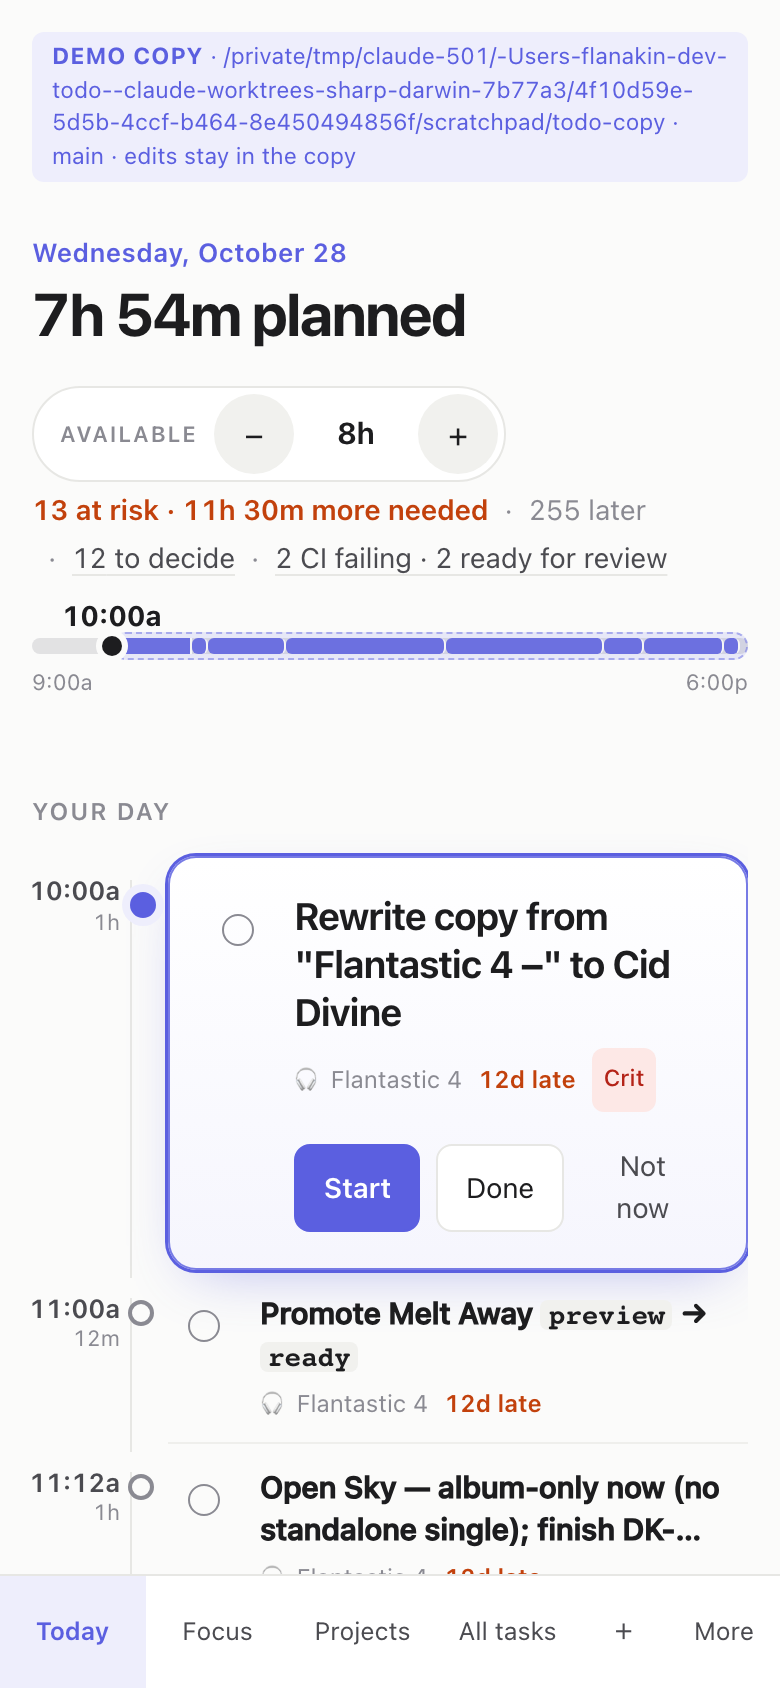
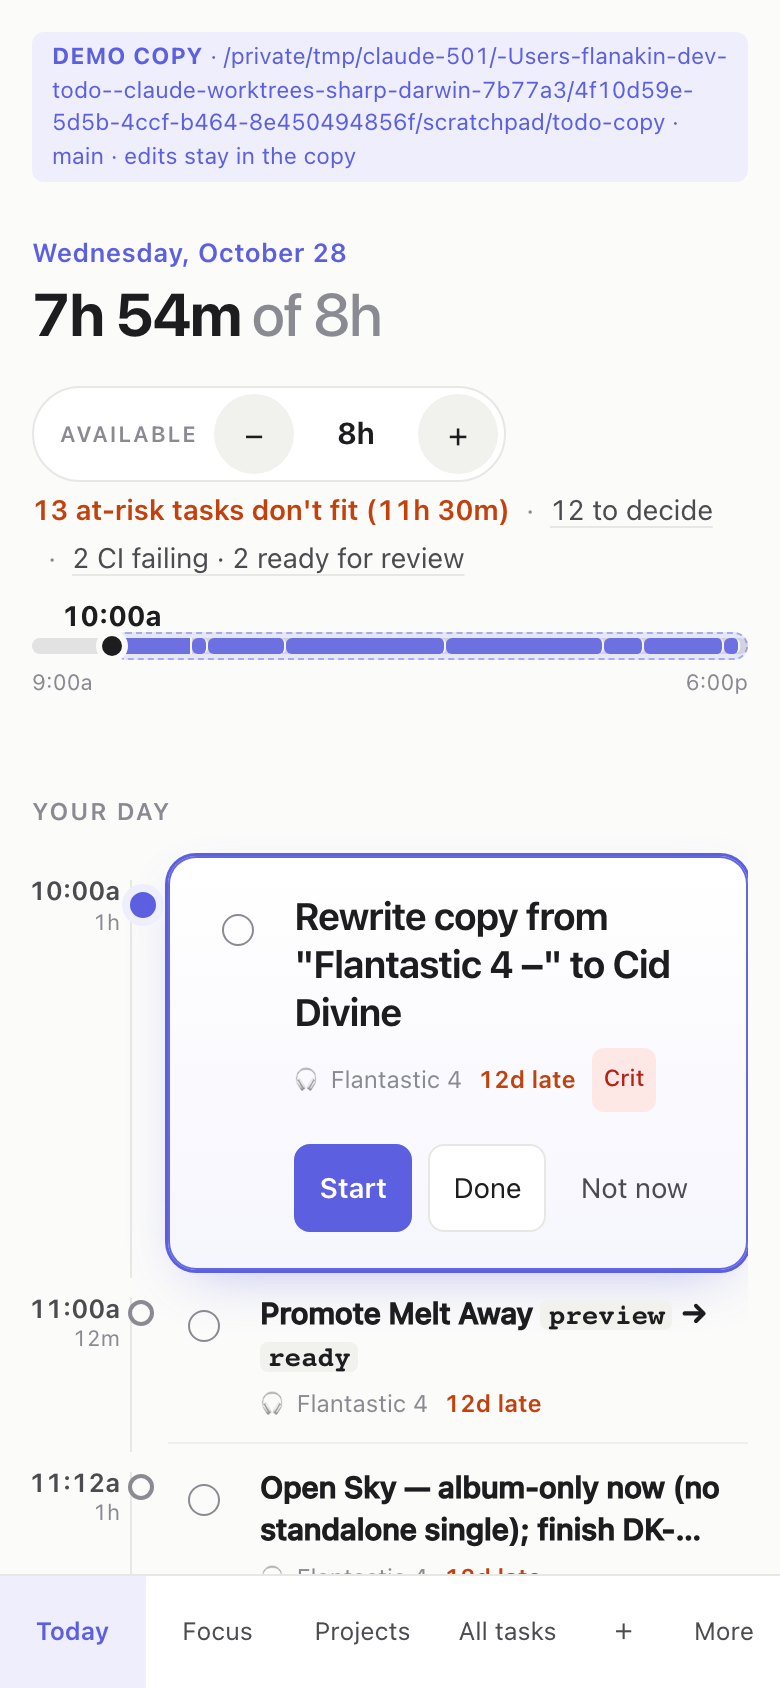
[Stack][Change] Today designer pass: budget headline, at-risk-only fit list, two columns from 960px, cleaner AI team rows

diff --git a/web/src/views.tsx b/web/src/views.tsx
@@ -305,6 +305,8 @@ function Sent({ items, now }: { items: InboxItem[]; now: Date }) {
 
 type RefText = { ref: string; text: string };
 type RowKey = RefText & { project: string };
+/** Agent rows often start with a project glyph and an `[AI]` tag; both are noise in the panel. */
+const agentTitle = (s: string) => s.replace(/^(?:[^\p{L}\p{N}`*[]+\s*)+/u, '').replace(/^\[AI\]\s*/i, '').replace(/\s+[—-]\s*$/, '').trim() || s;
 const CHECK = { passing: '✓', failing: '✕', pending: '…', none: '' } as const;
 
 export interface TodayProps {
@@ -335,9 +337,10 @@ export function TodayView(t: TodayProps) {
   const agents = t.agents ?? [];
   const live = agents.filter((a) => a.state !== 'queued');
   const queued = agents.filter((a) => a.state === 'queued');
-  const shownQueued = queuedOpen ? queued : queued.slice(0, 3);
+  const shownQueued = queuedOpen ? queued : [];
   const heads = attention(agents).filter((x) => !/queued$/.test(x)).slice(0, 2);
   const over = t.plan.overflow.length > 0;
+  const shownOver = t.plan.atRisk.length > 0 ? t.plan.atRisk.slice(0, 12) : t.plan.overflow.slice(0, 5);
   const replyBox = (key: string, task: RefText, owner: string, placeholder: string, ok: string) => replying === key && (
     <Reply to={`the ${owner} agent`} placeholder={placeholder} onClose={() => setReplying(null)} onSend={(text) => { setReplying(null); t.onReply(task, text, ok); }} />
   );
@@ -349,7 +352,7 @@ export function TodayView(t: TodayProps) {
       <li key={a.ref} class={`agent ${a.state}`}>
         <span class="pulse" aria-hidden="true" />
         <div class="agent-body">
-          <p class="agent-title"><Md text={r.title || a.title} /></p>
+          <p class="agent-title"><Md text={agentTitle(r.title || a.title)} /></p>
           <p class="agent-meta">
             <span class="agent-state">{AGENT_LABEL[a.state]}</span>
             <span>{owner}</span>
@@ -361,9 +364,9 @@ export function TodayView(t: TodayProps) {
             {line && <span class="agent-last">{line}</span>}
           </p>
           <Sent items={repliesOf(a)} now={t.now} />
-          {replyBox(a.ref, a, owner, 'Message the agent', 'Sent to the agent')}
         </div>
         <button type="button" class="btn quiet reveal" aria-expanded={replying === a.ref} onClick={() => setReplying(replying === a.ref ? null : a.ref)}>Reply</button>
+        {replyBox(a.ref, a, owner, 'Message the agent', 'Sent to the agent')}
       </li>
     );
   };
@@ -373,7 +376,7 @@ export function TodayView(t: TodayProps) {
         <div class="t-top">
           <div>
             <p class="t-date">{date}</p>
-            <h1>{t.plan.blocks.length === 0 ? (t.budget.minutes > 0 ? 'Nothing planned' : 'No time planned') : `${span(t.plan.busy)} planned`}</h1>
+            <h1>{t.plan.blocks.length === 0 ? (t.budget.minutes > 0 ? 'Nothing planned' : 'No time planned') : <>{span(t.plan.busy)} <span class="of">of {span(t.budget.minutes)}</span></>}</h1>
           </div>
           <div class="avail" role="group" aria-label="Available today" data-testid="available">
             <span class="avail-label">Available</span>
@@ -384,8 +387,7 @@ export function TodayView(t: TodayProps) {
           </div>
         </div>
         <p class="t-sub">
-          {t.plan.atRisk.length > 0 ? <span class="warn">{t.plan.atRisk.length} at risk · {span(t.plan.riskShort)} more needed</span> : <span>{span(t.plan.free)} free</span>}
-          {t.plan.overflow.length > t.plan.atRisk.length && <span class="quiet">{t.plan.overflow.length - t.plan.atRisk.length} later</span>}
+          {t.plan.atRisk.length > 0 ? <span class="warn">{t.plan.atRisk.length} at-risk task{t.plan.atRisk.length === 1 ? '' : 's'} don't fit ({span(t.plan.riskShort)})</span> : <span>{span(t.plan.free)} free</span>}
           {t.plan.assumed > 0 && <span class="quiet" title="No effort set; 30 min assumed">{t.plan.assumed} estimated</span>}
           {t.decisions.length > 0 && <button type="button" class="jump" onClick={() => jump('needs-you')}>{t.decisions.length} to decide</button>}
           {heads.length > 0 && <button type="button" class="jump" onClick={() => jump('ai-team')}>{heads.join(' · ')}</button>}
@@ -408,11 +410,11 @@ export function TodayView(t: TodayProps) {
           {over && (
             <div class="nofit" data-testid="nofit">
               <div class="nofit-head">
-                <h3>Doesn't fit <span>{t.plan.atRisk.length > 0 ? `${t.plan.atRisk.length} at risk · ` : ''}{t.plan.overflow.length} tasks · {span(t.plan.short)}</span></h3>
-                <button type="button" class="btn quiet" onClick={() => t.onBudget(t.budget.minutes + 30)}>+30m</button>
+                <h3>Doesn't fit{t.plan.atRisk.length > 0 && <span>{t.plan.atRisk.length} at risk</span>}</h3>
+                <button type="button" class="btn quiet" title="More time (])" onClick={() => t.onBudget(t.budget.minutes + 30)}>+30m <kbd>]</kbd></button>
               </div>
               <ul>
-                {t.plan.overflow.slice(0, 12).map((o) => {
+                {shownOver.map((o) => {
                   const e = estimate(o);
                   return (
                     <li key={o.ref} class={t.plan.atRisk.includes(o) ? 'risk' : undefined} onDblClick={() => t.p.onOpen(o.ref)}>
@@ -423,7 +425,7 @@ export function TodayView(t: TodayProps) {
                   );
                 })}
               </ul>
-              {t.plan.overflow.length > 12 && <p class="quiet">and {t.plan.overflow.length - 12} more</p>}
+              {t.plan.overflow.length > shownOver.length && <p class="nofit-later">{t.plan.overflow.length - shownOver.length} later</p>}
             </div>
           )}
         </div>
@@ -439,7 +441,7 @@ export function TodayView(t: TodayProps) {
               const rec = d.recommendation && !/:$/.test(d.recommendation) ? d.recommendation : undefined;
               return (
                 <li class={`card need${sent.length ? ' decided' : ''}`} key={key}>
-                  <p class="card-eyebrow">{owner}{d.context ? ` · ${parseRow(d.context.text).title}` : ''}</p>
+                  <p class="card-eyebrow">{owner}{d.context ? ` · ${parseRow(d.context.text).title.replace(/\s--\s/g, ' — ')}` : ''}</p>
                   <p class="card-title"><Md text={r.title || d.task.text} /></p>
                   {rec && sent.length === 0 && <p class="rec"><span>Recommended</span><Md text={rec} /></p>}
                   {sent.length > 0 && <p class="waiting-agent">Sent, waiting on the agent</p>}
@@ -467,7 +469,7 @@ export function TodayView(t: TodayProps) {
             {live.map(agentRow)}
             {shownQueued.map(agentRow)}
           </ul>
-          {queued.length > 3 && <button type="button" class="link-btn" onClick={() => setQueuedOpen((o) => !o)}>{queuedOpen ? 'Show fewer' : `${queued.length - 3} more queued`}</button>}
+          {queued.length > 0 && <button type="button" class="link-btn queued-toggle" aria-expanded={queuedOpen} onClick={() => setQueuedOpen((o) => !o)}>{queuedOpen ? 'Hide queued' : `${queued.length} queued`}</button>}
 
           <h2 class="h2">Projects</h2>
           <ul class="tiles" data-testid="tops">

diff --git a/web/src/styles.css b/web/src/styles.css
@@ -451,3 +451,26 @@ a.tag.link:hover { background: var(--accent-soft); }
 .nofit li.risk .nofit-title { color: var(--ink); font-weight: 550; }
 .nofit-proj .due { margin-right: 8px; font-size: 11.5px; }
 .nofit-proj .due.late { color: var(--warn); }
+
+/* Designer pass r4 */
+.t-head h1 .of { color: var(--muted); font-weight: 500; }
+.nofit h3 span { margin-left: 8px; }
+.nofit .btn kbd { margin-left: 2px; }
+.nofit-later { margin: 8px 0 0; font-size: 12.5px; color: var(--muted); }
+.agent-meta > :first-child::before { content: none; }
+.agent-meta > * + *::before { content: "·"; margin-right: 8px; color: var(--muted); }
+.agent .reply { flex-basis: 100%; margin: 6px 0 4px 21px; }
+.agent .reply-row input { min-width: 0; }
+.queued-toggle { margin-top: 6px; }
+.card-title { font-size: 14.5px; font-weight: 550; -webkit-line-clamp: 3; }
+.block:not(.lead) { min-height: 0; }
+@media (min-width: 960px) { .main:has(.today) { max-width: 1200px; } .t-cols { display: grid; grid-template-columns: minmax(0, 1fr) 320px; gap: 0 36px; align-items: start; } .t-side { position: sticky; top: 20px; } .t-side > :first-child.h2 { margin-top: 0; } }
+@media (min-width: 1100px) { .t-cols { grid-template-columns: minmax(0, 1fr) 380px; gap: 0 48px; } }
+.rail { min-height: 100vh; }
+@media (max-width: 799px) {
+  .block.lead .what { max-width: 100%; min-width: 0; }
+  .lead-actions .btn { white-space: nowrap; }
+}
+@media (prefers-color-scheme: dark) { .chip.hot { color: #fecaca; } }
+.agent-meta > .agent-last { flex-basis: 100%; }
+.agent-meta > .agent-last::before { content: none; }

diff --git a/web/e2e/app.spec.ts b/web/e2e/app.spec.ts
@@ -835,7 +835,7 @@ test.describe('today view', () => {
   // @req FR:web-app/today.plan
   test('default route is Today: header, lead block actions, blocks in order, done circle completes', async ({ page }, info) => {
     const m = await setup(page, day());
-    await expect(page.getByRole('region', { name: 'Today' }).getByRole('heading', { level: 1 })).toContainText('planned');
+    await expect(page.getByRole('region', { name: 'Today' }).getByRole('heading', { level: 1 })).toContainText('of 8h');
     await expect(page.locator('.t-sub')).toContainText('free');
     const blocks = page.locator('[data-testid="plan"] .block');
     await expect(blocks.first().locator('.what-title')).toContainText('Plain priority'); // the server's next task leads
@@ -861,7 +861,7 @@ test.describe('today view', () => {
   // @req FR:web-app/today.fit
   test('tasks that do not fit are listed with estimates and +30m grows the budget', async ({ page }) => {
     await setup(page, Array.from({ length: 6 }, (_, i) => mk(i + 1, `Big ${i + 1} 🔴`)));
-    await expect(page.locator('.t-sub')).toContainText('2 later');
+    await expect(page.getByTestId('nofit')).toContainText('Big 5');
     const nofit = page.getByTestId('nofit');
     await expect(nofit.locator('li').first()).toContainText('2h');
     const before = await page.locator('[data-testid="plan"] .block').count();

diff --git a/.xe/features/web-app/spec.md b/.xe/features/web-app/spec.md
@@ -45,10 +45,10 @@ Home plans the day; it is not a list. Design: `docs/design/web-ux.md`.
 
 - **FR:today.plan** (P1): **Your day** lays your own tasks (open leaf rows in Active that are actionable, not 🤖/🪄/🙋) on a timeline from the plan start (now rounded up to 15 min, never before the work day start of 9:00): the `/next` task first, then by due-soon, in progress, priority. Each block uses its effort (30 min when unset, marked `~` as an estimate; capped at 2 h and marked `+`). The first block has Start (`s`), Done (`d`), Not now (`z`); every block has a done circle
 - **FR:today.capacity** (P1): The header has an **Available** control: the minutes you have for your own tasks today. Default is the time left in the work day (9:00-18:00 local). `−`/`+` buttons and the `[`/`]` keys change it by 30 min (0 to 16 h); Reset returns to the default. The value is kept for the current local date only (browser storage, so it resets tomorrow; when storage is unavailable the default is used). The plan never books more than this budget
-- **FR:today.fit** (P1): Tasks are packed in rank order; a task that does not fit the minutes left is skipped and later smaller ones may still fit. A left-out task is **at risk** when it is due today, late by 30 days or less (older is stale), or in progress. The header says what is free (`1h 30m free`); when any task is at risk it says `n at risk · 2h 30m more needed` (minutes the at-risk tasks need) in the warning color instead; other left-out tasks are a muted count (`268 later`). **Doesn't fit** lists at-risk tasks first, then the rest, with their estimates (first 12; the rest as a count) and `+30m` to grow the budget. When some blocks use the 30 min default, the header notes `n estimated`
+- **FR:today.fit** (P1): Tasks are packed in rank order; a task that does not fit the minutes left is skipped and later smaller ones may still fit. A left-out task is **at risk** when it is due today, late by 30 days or less (older is stale), or in progress. The headline compares planned to the budget (`7h 54m of 8h`). The subline says what is free (`1h 30m free`) or, when any task is at risk, `n at-risk tasks don't fit (2h 30m)` in the warning color. **Doesn't fit** lists the at-risk tasks (first 12) with their estimates, or the next 5 left-out tasks when none is at risk, then the rest as one muted count (`255 later`), and `+30m` to grow the budget. When some blocks use the 30 min default, the header notes `n estimated`
 - **FR:today.needs** (P1): **Needs you** lists open 🙋 rows in active work as cards: project, parent task, title, and the agent's recommendation (a note line with "recommend" on the row, its parent, or a sibling). `Go with it` sends a `decision` to the inbox (`Go with the recommendation: …`); `Reply` sends your text as a `reply`; `Details` opens focus mode. Four show first, the rest behind `n more`
 - **FR:today.reply** (P1): Every Needs-you card and AI-team item has Reply. Replies go to the project's agent inbox through `POST /inbox` (`FR:agent-inbox/api.send`) with the row text as `expect`; the task file is not changed. Open inbox entries for an item show under it (`You · 5m ago: …`), and a decided card shows `Sent, waiting on the agent` and moves below undecided cards. `Enter` sends, `Esc` closes
-- **FR:today.agents** (P1): **Your AI team** shows `GET /agents` (`FR:agent-inbox/activity.*`): per item a state label (CI failing, Needs you, Ready for review, Merged, CI running, Working, Queued) with a color dot, the title, project, linked pull requests as `repo#n` links with a check mark or cross, and the last activity (`claimed 2h ago`, `PR updated 3h ago`). The header counts what needs attention (`2 need you · 1 CI failing`). Queued items beyond three sit behind `n more queued`. When the route fails the panel shows the error with Retry and the rest of Today still works
+- **FR:today.agents** (P1): **Your AI team** shows `GET /agents` (`FR:agent-inbox/activity.*`): per item a state label (CI failing, Needs you, Ready for review, Merged, CI running, Working, Queued) with a color dot, the title, project, linked pull requests as `repo#n` links with a check mark or cross, and the last activity (`claimed 2h ago`, `PR updated 3h ago`). The header counts what needs attention (`2 need you · 1 CI failing`). Queued items are collapsed behind `n queued`. Titles drop a leading glyph and `[AI]` tag. When the route fails the panel shows the error with Retry and the rest of Today still works
 - **FR:today.projects** (P2): **Projects** shows one tile per project with its top open task and open count; a tile opens that project's list. `g t` goes to Today; the old Now view is **Focus** (`g n`)
 
 ### FR:now: Focus view (single next action)
